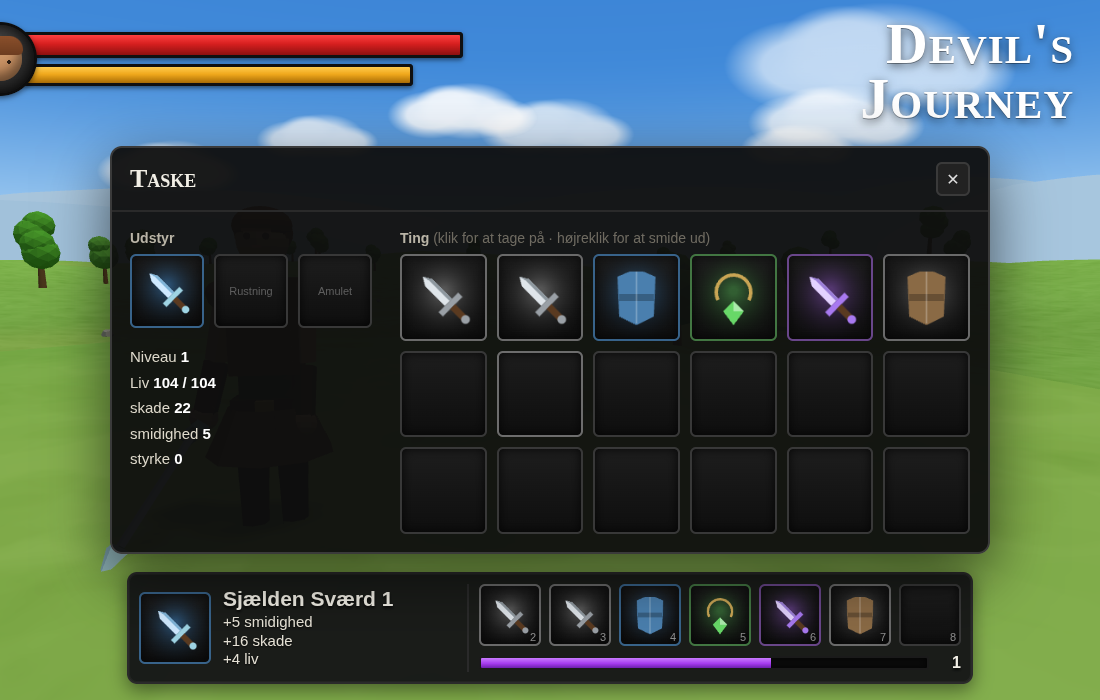
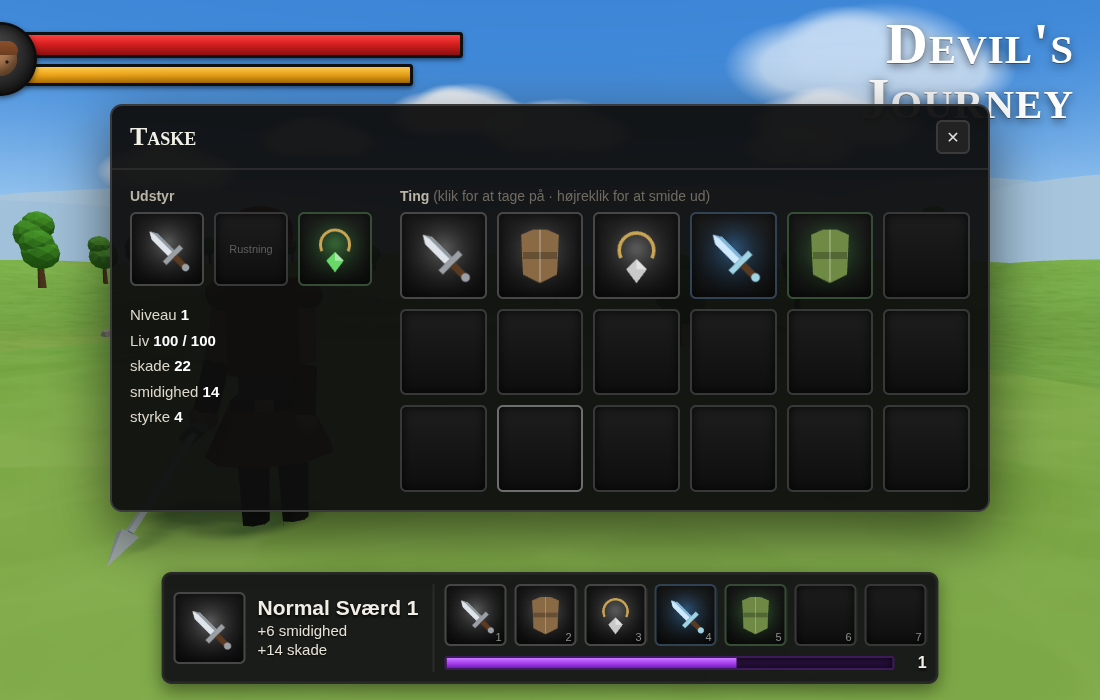
HUD round two: purple xp track, outlined combat text, tidier dock
Purple-tinted xp track so it reads at zero xp, hard outlines on floating
numbers, bag panel constrained so it never covers the dock on short screens,
hotbar keys renumbered 1-7 to match the slot labels and the help text,
tooltips suppressed while the cursor is locked, calmer rarity borders, a
smaller portrait face and a dock that no longer leaves a dead gap.

diff --git a/src/style.css b/src/style.css
@@ -29,19 +29,19 @@ body{font-family:"Segoe UI",Roboto,Helvetica,Arial,sans-serif;color:var(--txt);-
   display:flex;align-items:center;justify-content:center;z-index:2;
 }
 .portrait-face{
-  position:relative;width:44px;height:44px;border-radius:50%;
-  background:linear-gradient(165deg,#e0aa7c,#b07a4e);
+  position:relative;width:34px;height:34px;border-radius:50%;
+  background:linear-gradient(165deg,#c08e63,#8d5f3b);
   box-shadow:inset -4px -6px 10px rgba(0,0,0,.4);
 }
 .portrait-face::before{            /* auburn hair, swept over the crown */
-  content:'';position:absolute;left:-1px;right:-1px;top:-1px;height:19px;
+  content:'';position:absolute;left:-1px;right:-1px;top:-1px;height:14px;
   border-radius:22px 22px 8px 8px;background:linear-gradient(180deg,#8a4f2b,#6d3d20);
 }
 .portrait-face::after{             /* two eyes */
-  content:'';position:absolute;left:11px;right:11px;top:23px;height:4px;
+  content:'';position:absolute;left:8px;right:8px;top:18px;height:4px;
   background:
-    radial-gradient(circle 2px at 2px 2px,#2b1c12 98%,transparent),
-    radial-gradient(circle 2px at 20px 2px,#2b1c12 98%,transparent);
+    radial-gradient(circle 1.6px at 2px 2px,#2b1c12 98%,transparent),
+    radial-gradient(circle 1.6px at 16px 2px,#2b1c12 98%,transparent);
 }
 .bars{display:flex;flex-direction:column;gap:6px;margin-left:-14px}
 .bar{
@@ -77,13 +77,14 @@ body{font-family:"Segoe UI",Roboto,Helvetica,Arial,sans-serif;color:var(--txt);-
 }
 .float-num{
   position:absolute;transform:translate(-50%,-50%);font-weight:800;font-size:22px;
-  text-shadow:0 2px 4px rgba(0,0,0,.85);pointer-events:none;
+  pointer-events:none;-webkit-text-stroke:1px rgba(0,0,0,.9);paint-order:stroke fill;
+  text-shadow:0 2px 4px rgba(0,0,0,.85);
 }
 .float-num.dmg{color:#ffe9a8}
 .float-num.crit{color:#ffd23c;font-size:30px}
 .float-num.hurt{color:#ff6b6b}
-.float-num.xp{color:#d59bff;font-size:18px}
-.float-num.loot{color:#9ef07a;font-size:18px}
+.float-num.xp{color:#b46bf0;font-size:18px}
+.float-num.loot{color:#6fd44a;font-size:18px}
 
 /* toast */
 #toast{
@@ -101,10 +102,10 @@ body{font-family:"Segoe UI",Roboto,Helvetica,Arial,sans-serif;color:var(--txt);-
   box-shadow:0 6px 18px rgba(0,0,0,.45), inset 0 0 0 1px rgba(255,255,255,.04);
   pointer-events:auto;
 }
-.dock-item{display:flex;align-items:center;gap:12px;padding-right:14px;border-right:2px solid #2a2a2a;min-width:330px}
+.dock-item{display:flex;align-items:center;gap:12px;padding-right:14px;border-right:2px solid #2a2a2a;min-width:250px}
 .dock-text{display:flex;flex-direction:column;gap:2px}
-.item-name{font-size:21px;font-weight:700;text-shadow:0 2px 3px rgba(0,0,0,.8)}
-.item-stats{font-size:15px;color:#e6e2d6;line-height:1.25;text-shadow:0 1px 2px rgba(0,0,0,.8)}
+.item-name{font-size:21px;font-weight:700;white-space:nowrap;text-shadow:0 2px 3px rgba(0,0,0,.8)}
+.item-stats{font-size:15px;color:#e6e2d6;line-height:1.25;white-space:nowrap;text-shadow:0 1px 2px rgba(0,0,0,.8)}
 .dock-right{display:flex;flex-direction:column;gap:8px;justify-content:space-between}
 .hotbar{display:flex;gap:8px}
 
@@ -117,13 +118,13 @@ body{font-family:"Segoe UI",Roboto,Helvetica,Arial,sans-serif;color:var(--txt);-
 .slot-big{width:72px;height:72px;border-color:#4a4a4a}
 .slot .icon{width:100%;height:100%;image-rendering:auto}
 .slot .key{position:absolute;right:3px;bottom:1px;font-size:11px;color:#8d8d8d}
-.slot.filled{border-color:color-mix(in srgb, var(--rare,#8a8a8a) 45%, #2a2a2a);box-shadow:inset 0 0 12px rgba(0,0,0,.75)}
+.slot.filled{border-color:color-mix(in srgb, var(--rare,#8a8a8a) 20%, #2a2a2a);box-shadow:inset 0 0 12px rgba(0,0,0,.75)}
 .slot.selected{outline:2px solid #ffd88a;outline-offset:1px}
 .slot:hover{border-color:#6d6d6d}
 
 .xp-row{display:flex;align-items:center;gap:10px}
 .xp-bar{
-  flex:1;height:14px;background:#0b0b0b;border:2px solid #1a1a1a;border-radius:3px;
+  flex:1;height:14px;background:#2a1040;border:2px solid #3d1a5c;border-radius:3px;
   overflow:hidden;box-shadow:inset 0 0 8px rgba(0,0,0,.9);
 }
 .xp-bar .fill{height:100%;width:0;background:linear-gradient(180deg,#c97bff,var(--xp) 55%,var(--xp-dark));transition:width .25s}
@@ -131,8 +132,9 @@ body{font-family:"Segoe UI",Roboto,Helvetica,Arial,sans-serif;color:var(--txt);-
 
 /* ---------- inventory ---------- */
 .panel{
-  position:absolute;left:50%;top:50%;transform:translate(-50%,-50%);
-  width:min(880px,92vw);background:rgba(14,14,14,.95);
+  position:absolute;left:50%;top:44%;transform:translate(-50%,-50%);
+  width:min(880px,92vw);max-height:calc(100vh - 190px);display:flex;flex-direction:column;
+  background:rgba(14,14,14,.95);
   border:2px solid #3a3a3a;border-radius:12px;box-shadow:0 20px 60px rgba(0,0,0,.6);
   pointer-events:auto;z-index:5;
 }
@@ -141,7 +143,7 @@ body{font-family:"Segoe UI",Roboto,Helvetica,Arial,sans-serif;color:var(--txt);-
 .panel-head h2{font-family:Georgia,serif;font-size:26px;font-variant:small-caps;font-weight:700}
 .panel-head button{background:#222;border:2px solid #3a3a3a;color:#ddd;width:34px;height:34px;border-radius:6px;cursor:pointer;font-size:16px}
 .panel-head button:hover{background:#333}
-.panel-body{display:flex;gap:20px;padding:18px}
+.panel-body{display:flex;gap:20px;padding:18px;overflow:auto}
 .col-label{font-size:14px;color:#b9b4a6;margin-bottom:8px;font-weight:600}
 .col-label .dim{color:#6f6b61;font-weight:400}
 .equip-col{width:250px}

diff --git a/src/ui.js b/src/ui.js
@@ -29,7 +29,7 @@ export class UI {
     for (let i = 0; i < 7; i++) {
       const el = document.createElement('div');
       el.className = 'slot';
-      el.innerHTML = `<canvas class="icon" width="96" height="96"></canvas><span class="key">${i + 2}</span>`;
+      el.innerHTML = `<canvas class="icon" width="96" height="96"></canvas><span class="key">${i + 1}</span>`;
       el.addEventListener('click', () => {
         const item = this.game.state.hotbar[i];
         if (item) this.game.equip(item);
@@ -46,6 +46,7 @@ export class UI {
   /* ---------------- tooltip ---------------- */
   attachTip(el, getItem) {
     el.addEventListener('mousemove', e => {
+      if (document.pointerLockElement) { this.tooltip.style.display = 'none'; return; }
       const item = getItem();
       if (!item) { this.tooltip.style.display = 'none'; return; }
       this.showTip(item, e.clientX, e.clientY);

diff --git a/src/main.js b/src/main.js
@@ -145,8 +145,8 @@ addEventListener('keydown', e => {
   const k = e.key.toLowerCase();
   if (k === 'i' || k === 'tab') { e.preventDefault(); toggleBag(); return; }
   if (k === 'escape') { pause(); return; }
-  if (k >= '2' && k <= '8') {
-    const item = state.hotbar[+k - 2];
+  if (k >= '1' && k <= '7') {
+    const item = state.hotbar[+k - 1];
     if (item) equip(item);
     return;
   }

diff --git a/index.html b/index.html
@@ -86,7 +86,7 @@
           <li><b>Mus</b> kig dig omkring</li>
           <li><b>Venstre klik</b> slå</li>
           <li><b>Shift</b> løb</li>
-          <li><b>I</b> taske · <b>1–8</b> hurtigfelt</li>
+          <li><b>I</b> taske · <b>1–7</b> hurtigfelt</li>
         </ul>
         <button id="play">Spil</button>
         <p class="hint">Tryk Esc for at holde pause</p>
